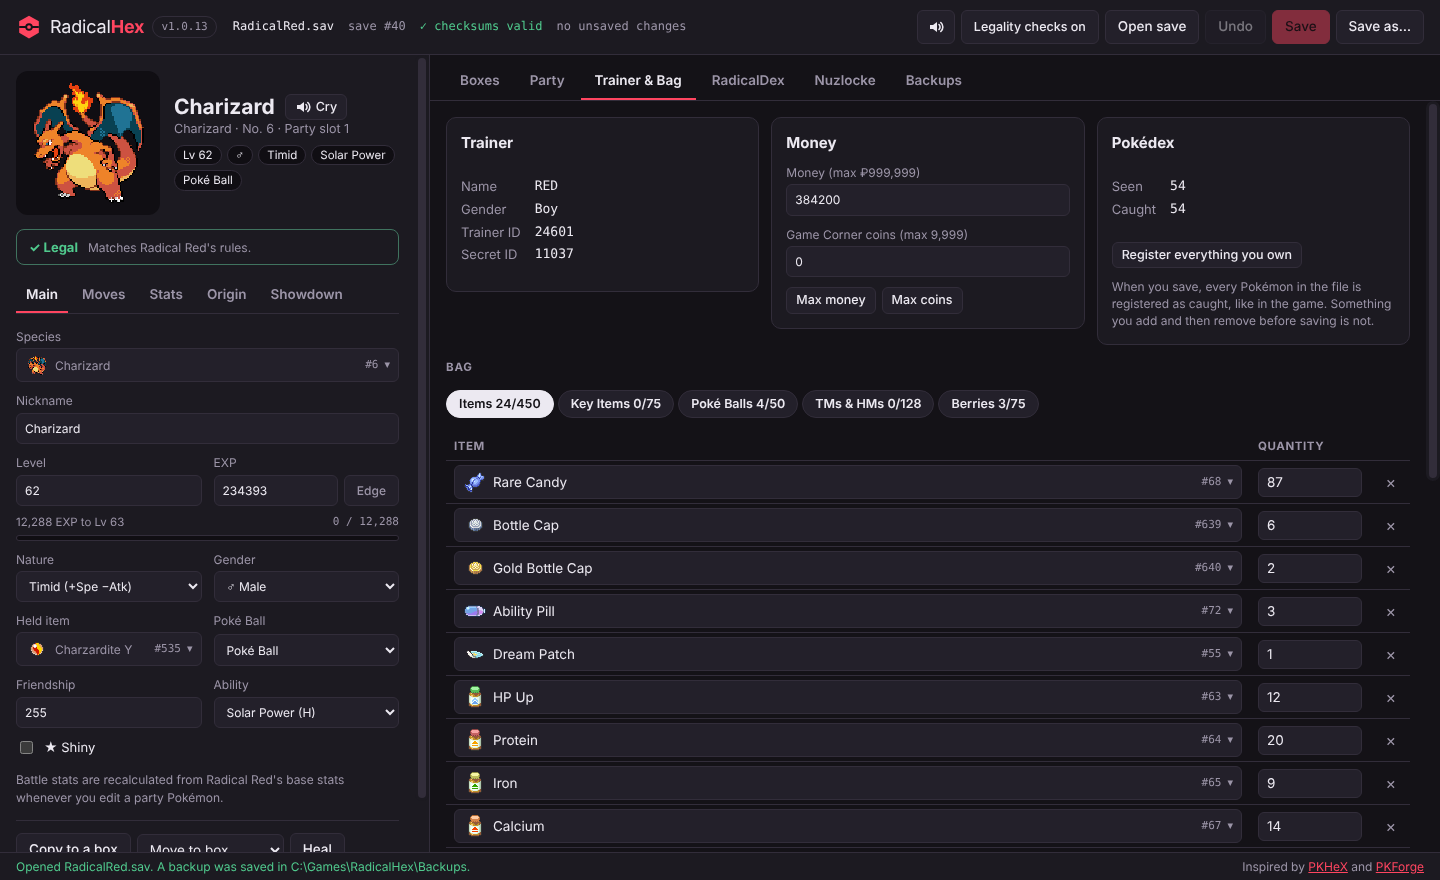
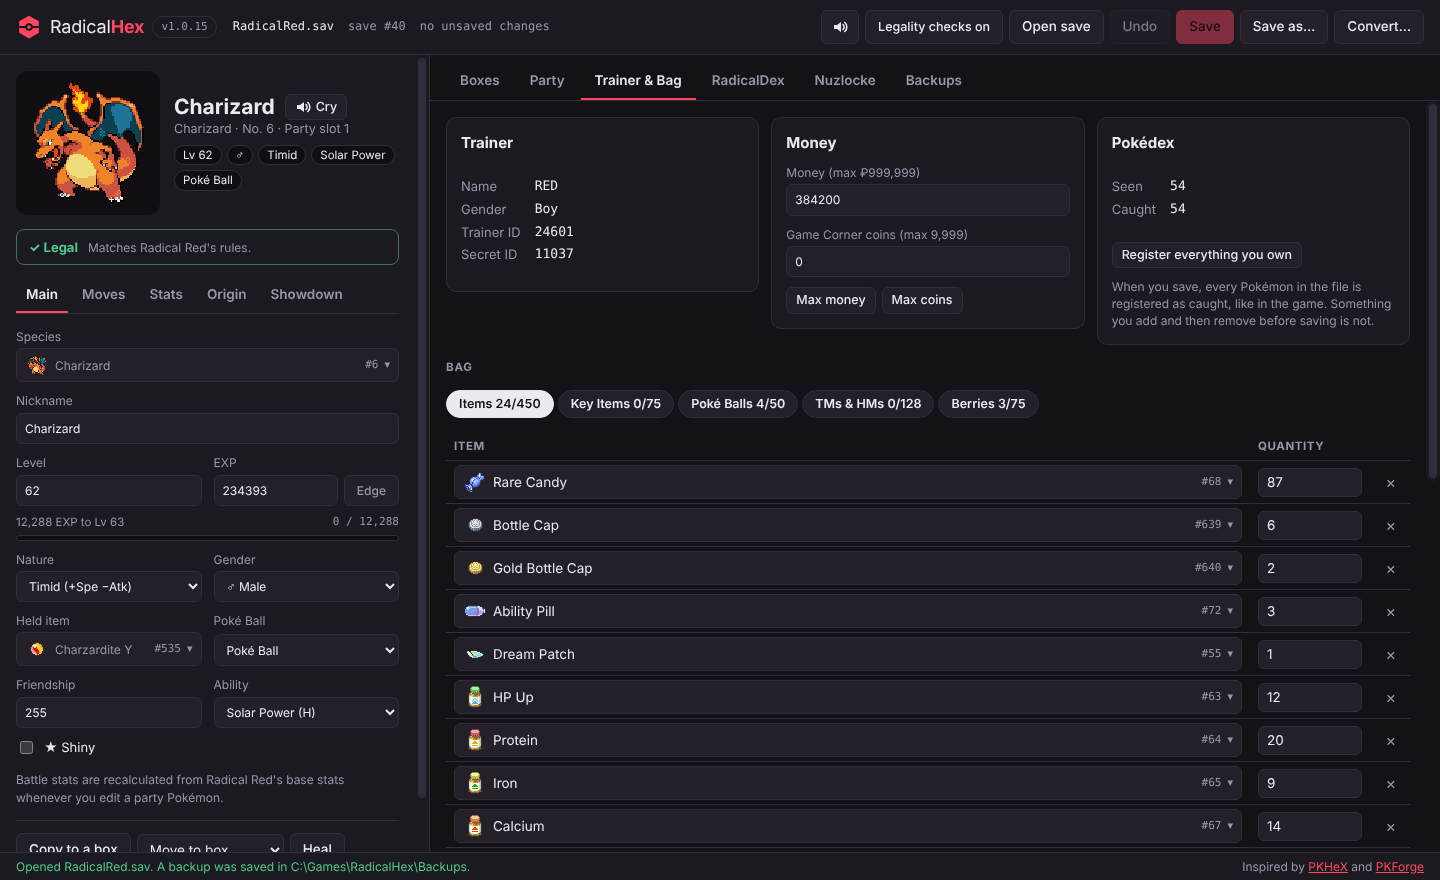
v1.0.15: save converter (RetroArch .srm <-> .sav) with failsafes, header fits small windows

Changed region(s): [[0.7812, 0.0, 0.9688, 0.0614], [0.5938, 0.0, 0.75, 0.0614], [0.3125, 0.0, 0.375, 0.0307]]

diff --git a/src/app.js b/src/app.js
@@ -251,10 +251,12 @@
     $('#btnUndo').disabled = !undo.length;
     for (const id of ['#btnSave', '#btnUndo']) $(id).hidden = !sv;
     $('#btnSaveAs').hidden = !sv || !host;
+    $('#btnConvert').disabled = !sv;
+    $('#btnConvert').hidden = !sv;
     if (!sv) return;
     f.replaceChildren(
       h('b', {}, fileName), h('span', {}, `save #${sv.saveIndex}`), h('span', { class: 'ok' }, '✓ checksums valid'),
-      dirty ? h('span', { class: 'dirty' }, `● ${dirty} unsaved change${dirty === 1 ? '' : 's'}`) : h('span', {}, 'no unsaved changes'));
+      dirty ? h('span', { class: 'dirty', title: `${dirty} unsaved change${dirty === 1 ? '' : 's'}` }, `● ${dirty}`, h('span', { class: 'long' }, ` unsaved change${dirty === 1 ? '' : 's'}`)) : h('span', {}, 'no unsaved changes'));
   }
 
   // ── Storage pane ──
@@ -1063,7 +1065,39 @@
       renderAll();
       status((host ? `Saved ${where}. The previous version is in Backups.` : `Downloaded ${where}. Your original file was not changed.`) + dexNote, 'ok');
       S.play('save');
+      return true;
     } catch (e) { showError('Could not save', e); }
+  }
+
+  // Converts the save as it is on disk into another emulator's layout. Only the file's size changes (mGBA adds
+  // 16 bytes of clock data that RetroArch doesn't use); the game data is copied byte for byte and checked.
+  async function convert() {
+    if (!sv) return;
+    const lay = C.saveLayout(sv.original);
+    if (!lay.ok) { showError('This save can\'t be converted', new Error(`This file is ${lay.text}.`)); return; }
+    const choice = await modal('Convert this save',
+      `${fileName} is ${lay.text}.\n\n`
+      + 'For RetroArch (.srm): for RetroArch on Android or PC with the mGBA or VBA-M core. The .srm must have the same name as your ROM (RadicalRed.gba → RadicalRed.srm) and go in RetroArch\'s saves folder.\n\n'
+      + 'For other emulators (.sav): for mGBA, VBA-M, My Boy!, Pizza Boy and others. Also turns a RetroArch .srm back into a .sav.\n\n'
+      + 'The file you have open is never changed. Close the emulator before copying the new file over its save.',
+      [{ text: 'Cancel' }, { text: 'Other emulators (.sav)' }, { text: 'RetroArch (.srm)', primary: true }]);
+    if (choice < 1) return;
+    const format = choice === 2 ? 'srm' : 'sav';
+    if (dirty) {
+      const go = await modal('Save your changes first?', `You have ${dirty} unsaved change${dirty === 1 ? '' : 's'}. The converted copy is made from the file on disk, so save first to include them.`,
+        [{ text: 'Cancel' }, { text: 'Convert without them' }, { text: 'Save, then convert', primary: true }]);
+      if (go < 1) return;
+      if (go === 2 && !(await save(false))) return;
+    }
+    let out;
+    try { out = C.convertSave(sv.original, format); } catch (e) { showError('Could not convert the save', e); return; }
+    try {
+      let where;
+      if (host) { where = await host.convertSave(out, format); if (!where) return; }
+      else { where = fileName.replace(/(\.\w+)?$/, '.' + format); download(out, where); }
+      status(`${host ? 'Saved' : 'Downloaded'} ${where} (${format === 'srm' ? 'RetroArch' : 'other emulators'}). ${fileName} was not changed.`, 'ok');
+      S.play('save');
+    } catch (e) { showError('Could not convert the save', e); }
   }
 
   // ── Wiring ──
@@ -1133,6 +1167,7 @@
   $('#btnOpen2').onclick = open;
   $('#btnSave').onclick = () => save(false);
   $('#btnSaveAs').onclick = () => save(true);
+  $('#btnConvert').onclick = convert;
   $('#btnUndo').onclick = doUndo;
   for (const b of document.querySelectorAll('.tab')) b.onclick = () => setTab(b.dataset.tab);
   $('#fileInput').onchange = async e => { const f = e.target.files[0]; e.target.value = ''; if (f) openBytes(new Uint8Array(await f.arrayBuffer()), f.name); };

diff --git a/src/core.js b/src/core.js
@@ -838,13 +838,37 @@
     return out;
   }
 
+  // ── Converting between emulators ──
+  // A GBA battery save is the same 128 KB of flash in every emulator. mGBA adds a 16-byte real-time clock block after it
+  // (Radical Red uses the clock for day and night); RetroArch's .srm is the 128 KB alone. Returns the layout of a file.
+  const FLASH = 0x20000, RTC_BLOCK = 16;
+  function saveLayout(bytes) {
+    if (bytes.length === FLASH) return { ok: true, extra: 0, text: '128 KB, no clock data (RetroArch .srm, VBA-M)' };
+    if (bytes.length === FLASH + RTC_BLOCK) return { ok: true, extra: RTC_BLOCK, text: '128 KB + 16 bytes of clock data (mGBA)' };
+    return { ok: false, text: `${bytes.length.toLocaleString()} bytes, which isn't a layout RadicalHex knows how to convert` };
+  }
+  // format 'srm' (RetroArch): the 128 KB alone. format 'sav' (mGBA, VBA-M, My Boy!): the 128 KB, keeping mGBA's clock
+  // block if the file has one. Throws unless the result is a valid save holding exactly the same save data.
+  function convertSave(bytes, format) {
+    const src = new Uint8Array(bytes), lay = saveLayout(src);
+    if (!lay.ok) throw new Error(`This file is ${lay.text}, so it was not converted.`);
+    load(src); // must be a real Radical Red save
+    const out = format === 'srm' ? src.slice(0, FLASH) : format === 'sav' ? src.slice() : null;
+    if (!out) throw new Error('Unknown save format.');
+    let back;
+    try { back = load(out); } catch (e) { throw new Error('The converted save does not load, so it was not written: ' + e.message); }
+    for (let i = 0; i < FLASH; i++) if (out[i] !== src[i]) throw new Error('The converted save does not match the original, so it was not written.');
+    if (back.saveIndex !== load(src).saveIndex) throw new Error('The converted save does not match the original, so it was not written.');
+    return out;
+  }
+
   const api = {
     WIN, BOXES, SLOTS, POCKETS, BALLS, NATURES, STATS, MONEY_MAX, COINS_MAX, natureEffect,
     load, serialize, build, checksum, allowedRanges,
     partyCount, partyRef, boxRef, boxName, mon, levelOf, setLevel, setExp, growth, genderOf, genderRatio, defaultNickname,
     solvePid, setNatureShiny, setGender, setOtIds, makeMine, abilityName, setAbility, trainer, setMoney, setCoins, readPocket, writePocket, pocketOf,
     dex, registerOwned, NATIONAL_DEX, createInBox, release, swap, copyToBox, withdraw, deposit, createInParty, moveMon, toShowdown, fromShowdown, heal, partyStatus, STATUS,
-    calcStats, recalcStats, legality, isIllegal, expLevel, unknownData, EV_CAP, EV_TOTAL, clampEvs,
+    calcStats, recalcStats, legality, isIllegal, expLevel, unknownData, saveLayout, convertSave, EV_CAP, EV_TOTAL, clampEvs,
     learnable: (X, sp) => learnSet(X, sp),
     levelOnly: (X, sp) => levelOnly(X, sp), // move -> [move, level, species] for moves only learned by levelling up // Set of move ids the species can know in Radical Red (what legality checks)
     validSpecies, validItem, validMove, encodeText, decodeText,

diff --git a/src/style.css b/src/style.css
@@ -42,7 +42,8 @@ h1, h2, h3 { font-family: var(--display); margin: 0; text-wrap: balance; }
 .update-bar { display: block; height: 8px; background: var(--sunk); border-radius: 4px; overflow: hidden; }
 .update-bar > span { display: block; height: 100%; width: 0; background: var(--good); transition: width .2s; }
 .file { display: flex; gap: 14px; align-items: baseline; font-family: var(--mono); font-size: 12px; color: var(--muted); min-width: 0; flex: 1; overflow: hidden; white-space: nowrap; text-overflow: ellipsis; }
-.file b { color: var(--fg); font-weight: 500; }
+.file b { color: var(--fg); font-weight: 500; min-width: 0; overflow: hidden; text-overflow: ellipsis; }
+.file span { flex: none; } /* on narrow windows the file name shortens first, so "unsaved changes" stays in view */
 .file .ok { color: var(--good); }
 .file .dirty { color: var(--warn); }
 .actions { display: flex; gap: 6px; margin-left: auto; }
@@ -311,15 +312,18 @@ table.enc tr:last-child td { border-bottom: 0; }
 .top .actions { flex: none; }
 .status #status, .status .credit { overflow: hidden; text-overflow: ellipsis; }
 .status .credit { flex: none; }
+@media (max-width: 1440px) { .file span:nth-child(3) { display: none; } } /* "checksums valid" */
+@media (max-width: 1280px) { .file span:nth-child(2) { display: none; } } /* "save #" */
 @media (max-width: 1180px) {
   .top { padding: 8px 12px; gap: 6px 12px; }
-  .file span:nth-child(3) { display: none; } /* "checksums valid" */
   .editor { padding: 12px; }
   .pane { padding: 12px; }
   .pc { padding: 6px; gap: 4px; }
 }
 @media (max-width: 1000px) {
-  .file span:nth-child(2), .status .credit { display: none; }
+  .status .credit { display: none; }
+  .file .long { display: none; } /* "● 2" instead of "● 2 unsaved changes" */
+  .top .actions .btn { padding-inline: 10px; }
   .dex { grid-template-columns: minmax(0, 1fr); grid-template-rows: minmax(230px, 44%) minmax(0, 1fr); }
   .dex-side { border-right: 0; border-bottom: 1px solid var(--line); }
   .dex-filters { flex-direction: row; flex-wrap: wrap; }

diff --git a/main.js b/main.js
@@ -143,6 +143,24 @@ handle('save-as', async bytes => {
   win.__dirty = false;
   return r.filePath;
 });
+// Writes a converted copy of the open save (RetroArch .srm or a plain .sav). The open file is never touched: a
+// copy can't be written over it, a file already at the chosen path is backed up first, and the copy is verified.
+const FORMATS = { srm: { name: 'RetroArch save', size: [0x20000] }, sav: { name: 'GBA battery save', size: [0x20000, 0x20010] } };
+handle('convert-save', async ({ bytes, format } = {}) => {
+  const f = FORMATS[format];
+  if (!f) throw new Error('Unknown save format.');
+  const buf = Buffer.from(bytes || []);
+  if (!f.size.includes(buf.length)) throw new Error('The converted save is the wrong size, so it was not written.');
+  const base = current ? current.path : path.join(readSettings().lastDir || app.getPath('documents'), 'RadicalRed.sav');
+  const r = await dialog.showSaveDialog(win, { title: `Save a ${format === 'srm' ? 'RetroArch .srm' : '.sav'} copy`,
+    defaultPath: base.replace(/(\.\w+)?$/, '.' + format), filters: [{ name: f.name, extensions: [format] }, { name: 'All files', extensions: ['*'] }] });
+  if (r.canceled) return null;
+  if (current && path.resolve(r.filePath).toLowerCase() === path.resolve(current.path).toLowerCase())
+    throw new Error(`That is the save you have open (${current.name}). Pick another name or folder, so the original stays as it is.`);
+  if (fs.existsSync(r.filePath)) backup(path.basename(r.filePath), fs.readFileSync(r.filePath));
+  writeSafely(r.filePath, buf);
+  return r.filePath;
+});
 handle('list-backups', async () => backupDirs().flatMap(dir => fs.readdirSync(dir).filter(f => f.endsWith('.sav')).map(f => {
   const st = fs.statSync(path.join(dir, f));
   return { name: f, path: path.join(dir, f), size: st.size, time: st.mtimeMs, old: dir !== backupDir() };

diff --git a/test/core.test.js b/test/core.test.js
@@ -417,6 +417,24 @@ for (const file of process.argv.slice(2)) {
     assert.strictEqual(u.length, 1); assert.ok(/unknown species #1500/.test(u[0]));
   });
 
+  t('converts to RetroArch .srm and back without changing the game data', () => {
+    const srm = C.convertSave(bytes, 'srm');
+    assert.strictEqual(srm.length, 0x20000);
+    assert.ok(C.saveLayout(srm).ok);
+    assert.deepStrictEqual(Buffer.from(srm), Buffer.from(bytes.subarray(0, 0x20000)));
+    assert.deepStrictEqual(Buffer.from(C.build(C.load(srm), D)), Buffer.from(srm), 'the .srm round trips');
+    assert.deepStrictEqual(Buffer.from(C.convertSave(bytes, 'sav')), Buffer.from(bytes), '.sav keeps the file as it is');
+    assert.deepStrictEqual(Buffer.from(C.convertSave(srm, 'sav')), Buffer.from(srm));
+    const a = C.load(srm), b = fresh();
+    assert.strictEqual(a.saveIndex, b.saveIndex);
+    assert.strictEqual(C.partyCount(a), C.partyCount(b));
+    assert.throws(() => C.convertSave(bytes, 'gba'));
+    assert.throws(() => C.convertSave(new Uint8Array(0x20000), 'srm'), 'a blank file is refused');
+    assert.throws(() => C.convertSave(new Uint8Array(0x20008), 'srm'), 'an unknown size is refused');
+    const bad = bytes.slice(); bad[fresh().sec[1] + 0x100] ^= 0xFF;
+    assert.throws(() => C.convertSave(bad, 'srm'), 'a damaged save is refused');
+  });
+
   t('every species marked addable has data and a valid nickname', () => {
     for (let i = 1; i < D.species.length; i++) {
       const s = D.species[i]; if (!s.n || !s.g) continue;

diff --git a/src/index.html b/src/index.html
@@ -22,6 +22,7 @@
       <button class="btn" id="btnUndo" type="button" title="Ctrl+Z" disabled>Undo</button>
       <button class="btn primary" id="btnSave" type="button" title="Ctrl+S" disabled>Save</button>
       <button class="btn" id="btnSaveAs" type="button" disabled>Save as…</button>
+      <button class="btn" id="btnConvert" type="button" title="Make a copy for RetroArch (.srm) or other emulators (.sav)" disabled>Convert…</button>
     </div>
   </header>
 

diff --git a/preload.js b/preload.js
@@ -12,6 +12,7 @@ contextBridge.exposeInMainWorld('rh', {
   openFile: file => call('open-path', webUtils.getPathForFile(file)),
   save: bytes => call('save', bytes),
   saveAs: bytes => call('save-as', bytes),
+  convertSave: (bytes, format) => call('convert-save', { bytes, format }),
   listBackups: () => call('list-backups'),
   readBackup: p => call('read-backup', p),
   deleteBackups: paths => call('delete-backups', paths),

diff --git a/README.md b/README.md
@@ -98,7 +98,19 @@ A Pokédex built from Radical Red's own data, so it matches the hack rather than
 - Undo (Ctrl+Z) for every edit, and a warning before closing with unsaved changes.
 - The Open dialog starts in the folder of the last save you opened.
 
-### Sounds and cries
+### Save converter (RetroArch .srm ↔ .sav)
+Play on your phone with RetroArch, then carry on on your PC (or the other way around).
+- **Convert…** in the top bar makes a copy of your save for another emulator:
+  - **RetroArch (.srm)** for RetroArch on Android or PC, with the mGBA or VBA-M core
+  - **Other emulators (.sav)** for mGBA, VBA-M, My Boy!, Pizza Boy and others. This also turns a RetroArch `.srm` back into a `.sav`
+- Only the file's layout changes. mGBA adds 16 bytes of clock data after the 128 KB of game data, and RetroArch doesn't use them. Your Pokémon, bag, Pokédex and progress are copied byte for byte.
+- Failsafes:
+  - The save you have open is never changed, and the copy can't be written over it.
+  - The copy is checked before it is written. RadicalHex loads it as a save and compares it with the original, so a damaged or non-Radical Red file isn't converted.
+  - Like a normal save, it is written to a temporary file first, then verified and swapped in.
+  - If a file with that name is already there, it is backed up to `Backups` first.
+  - With unsaved changes, RadicalHex asks whether to save first. The copy is made from the file on disk.
+
 - Every Pokémon has a **Cry** button (in the editor and the RadicalDex). Clicking its big sprite plays the cry too, and it hops along
 - Little GBA-style sounds for clicks, tabs, picking from lists, saving, undo, errors, adding a Pokémon (a Poké Ball catch), releasing, healing and making a Pokémon shiny
 - The speaker button in the top bar turns the sounds off or on. Cries still play when you ask for one
@@ -120,7 +132,7 @@ A Pokédex built from Radical Red's own data, so it matches the hack rather than
 
 1. **Close the game in your emulator** (or at least do not save in-game) before editing, or the emulator may overwrite your changes.
 2. Open your battery save (`.sav` / `.srm`), not a save state.
-3. Edit, then press **Save** (Ctrl+S). Use **Save as…** to write a copy instead.
+3. Edit, then press **Save** (Ctrl+S). Use **Save as…** to write a copy instead, or **Convert…** to make a copy for RetroArch (`.srm`) or other emulators (`.sav`).
 4. Load the save in your emulator.
 
 Good to know:
@@ -137,7 +149,16 @@ PKHeX can't edit Radical Red saves properly, because Radical Red is built on the
 Close the game, download `RadicalHex.exe` from the [Releases page](https://github.com/jajaa17/RadicalHex/releases/latest), open your `.sav` (or `.srm`), make your changes and press **Save**. Then load the game again. See [Using it](#using-it).
 
 **Which saves does it open?**
-Radical Red battery saves (`.sav`, `.srm`), as written by emulators like mGBA. Not save states. If your emulator is on a phone, copy the save to a PC, edit it there and copy it back.
+Radical Red battery saves (`.sav`, `.srm`) from emulators like mGBA, VBA-M, RetroArch and My Boy!. Not save states. If your emulator is on a phone, copy the save to a PC, edit it there and copy it back.
+
+**How do I play the same save on my phone (RetroArch) and my PC?**
+1. On the PC, open your save in RadicalHex and press **Convert…** → **RetroArch (.srm)**.
+2. Give the `.srm` the same name as your ROM. For example, if the ROM is `Pokemon Radical Red.gba`, the save must be `Pokemon Radical Red.srm`.
+3. Copy it to your phone, for example through Google Drive, into RetroArch's saves folder. That is often `RetroArch/saves` (or a folder inside it named after the core, such as `saves/mGBA`), but check **Settings → Directory → Save Files** in RetroArch.
+4. Close RetroArch's game before copying the save over, then load the ROM. Use in-game saves, not save states.
+5. To go back to the PC, copy the `.srm` from the phone, open it in RadicalHex, press **Convert…** → **Other emulators (.sav)**, and save it with your ROM's name next to your PC emulator's saves.
+
+Keep a copy of your save before swapping files around. RadicalHex keeps one in `Backups` every time you open a file.
 
 **Which version of Radical Red?**
 Radical Red **4.1**. It is built from 4.1's own data and tested on real 4.1 saves.
@@ -205,6 +226,7 @@ The screenshots in `docs` are made from a demo save with `npx electron tools/scr
 - [Complete Fire Red Upgrade](https://github.com/Skeli789/Complete-Fire-Red-Upgrade), the engine Radical Red is built on
 - Radical Red's own `Base_Stats.c` (from the history of [Ydarissep/Radical-Red-Pokedex](https://github.com/Ydarissep/Radical-Red-Pokedex)) for experience growth rates
 - [PokéAPI](https://github.com/PokeAPI/pokeapi) for national Pokédex numbers and gender ratios, [PokéAPI sprites](https://github.com/PokeAPI/sprites) for the Pokémon sprites, and [PokéAPI cries](https://github.com/PokeAPI/cries) for the cries
+- [RetroArch](https://www.retroarch.com/) by the libretro team and [mGBA](https://mgba.io/) by endrift, whose save formats the save converter works with
 - Pokémon Radical Red by soupercell and the Radical Red team
 
 RadicalHex is a fan project and is not affiliated with Nintendo, Creatures Inc., GAME FREAK inc. or The Pokémon Company. Pokémon names, sprites and cries are © their respective owners. Please do not use edited Pokémon against people who have not agreed to it.
